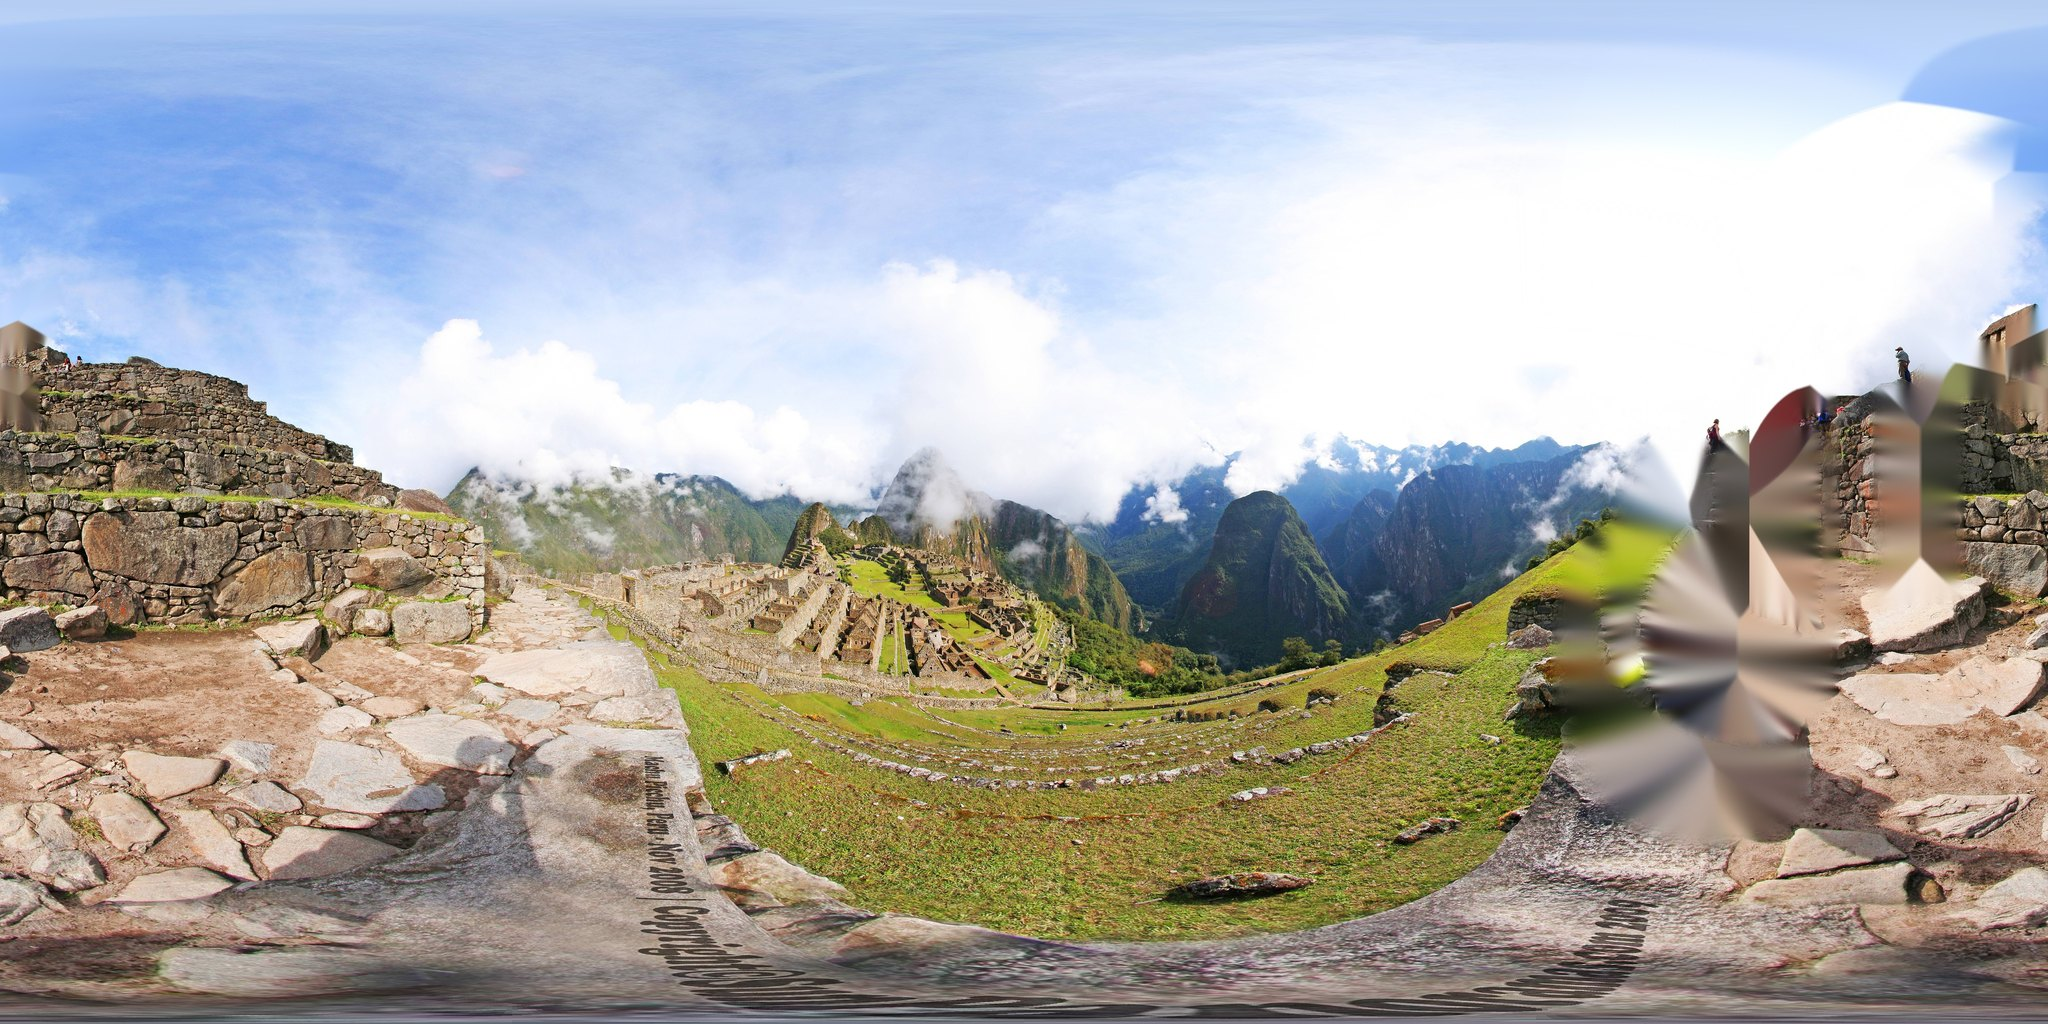
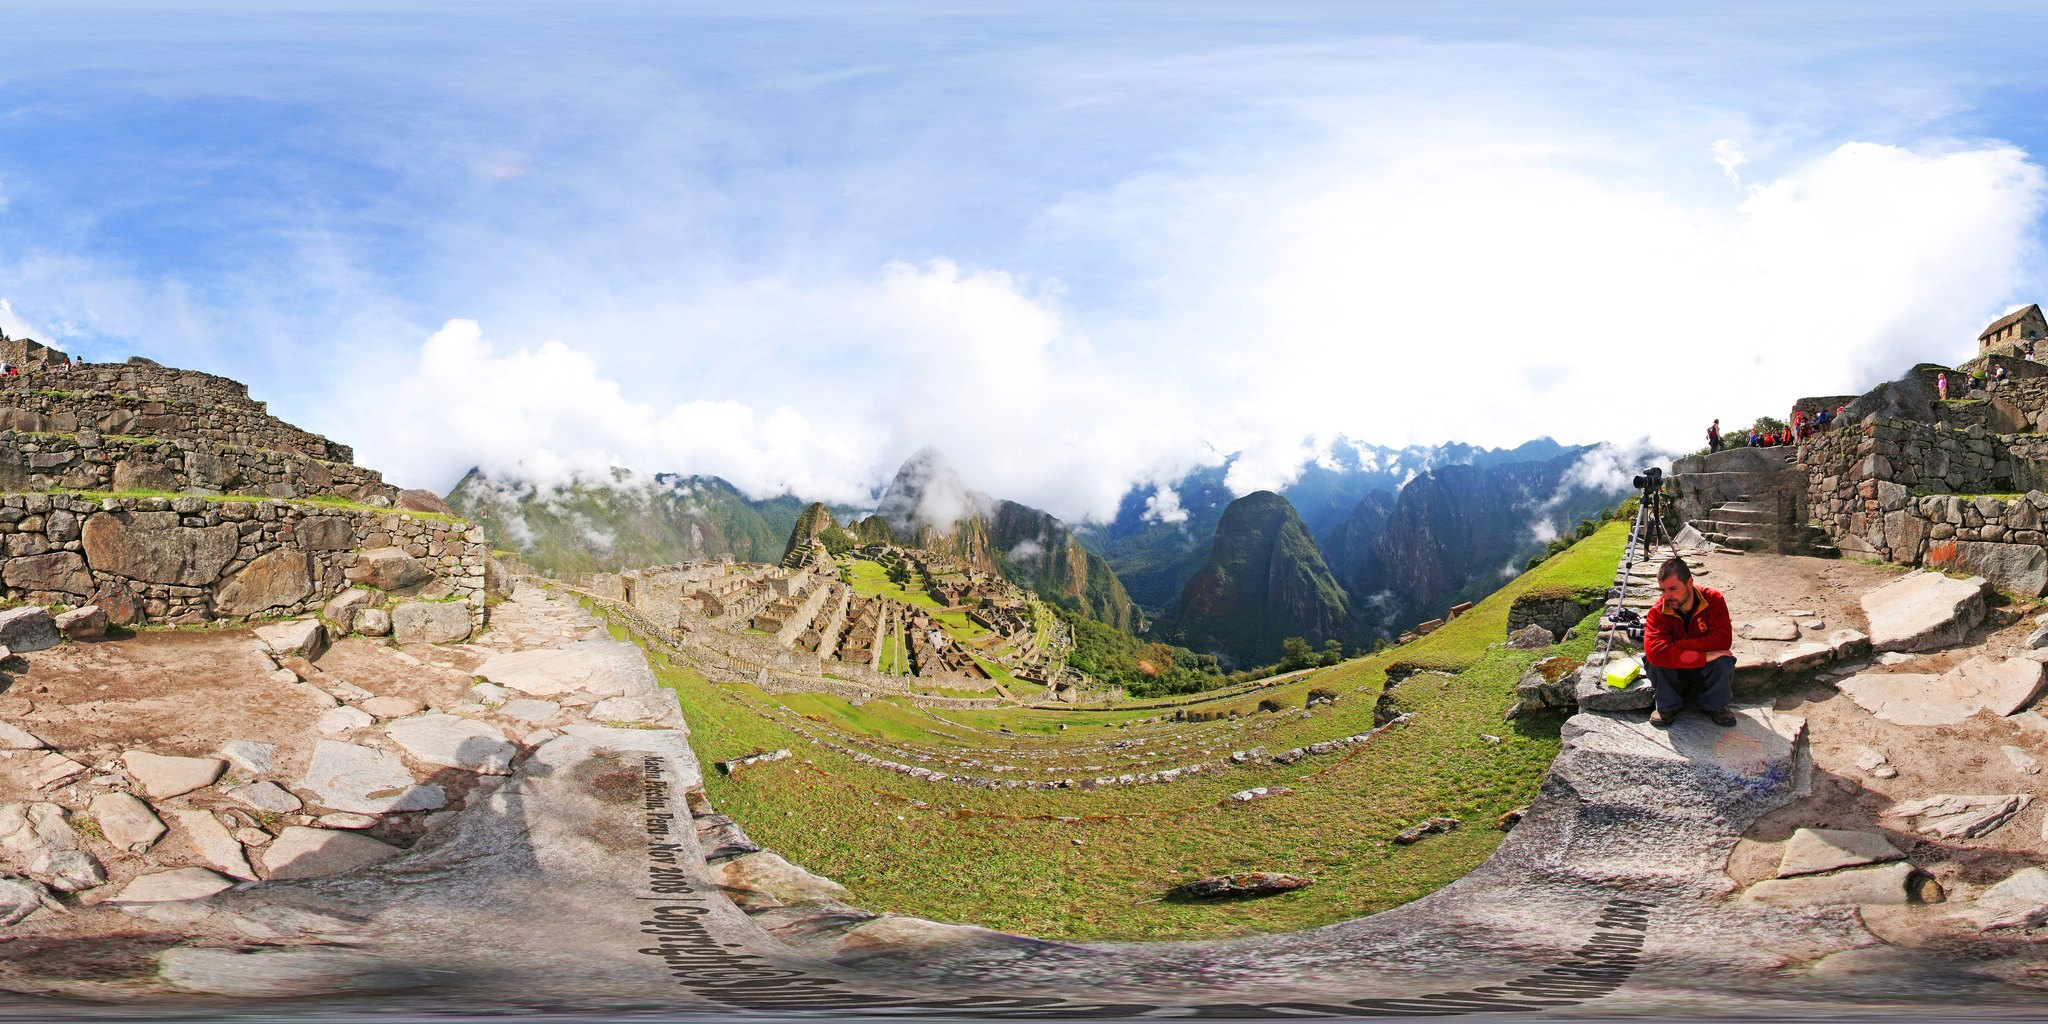
Add no-blur pano to GitHub Pages

Changed region(s): [[0.75, 0.2812, 1.0, 0.8438], [0.8125, 0.0625, 1.0, 0.1875], [0.0, 0.2812, 0.0312, 0.4062]]

diff --git a/docs/panos/index.html b/docs/panos/index.html
@@ -449,7 +449,8 @@
         renderReports();
         renderProvenance();
         renderPackageDetails();
-        if (options.length) setSelected(options[0]);
+        const initial = options.find((option) => option.id === manifest.primary_source_type) || options[0];
+        if (initial) setSelected(initial);
       })
       .catch((error) => {
         errorEl.hidden = false;

diff --git a/panos/index.html b/panos/index.html
@@ -449,7 +449,8 @@
         renderReports();
         renderProvenance();
         renderPackageDetails();
-        if (options.length) setSelected(options[0]);
+        const initial = options.find((option) => option.id === manifest.primary_source_type) || options[0];
+        if (initial) setSelected(initial);
       })
       .catch((error) => {
         errorEl.hidden = false;

diff --git a/spikes/mobile_vr_splat_feasibility/GITHUB_PAGES_PANOS.md b/spikes/mobile_vr_splat_feasibility/GITHUB_PAGES_PANOS.md
@@ -5,19 +5,20 @@ licensed research asset; production usage depends on 360Cities license terms.
 ## Status
 
 - Status: `packaged`
-- Generated: `2026-07-02T23:04:55Z`
+- Generated: `2026-07-03T14:47:22Z`
 - Site dir: `.` (GHP_VIEWER_DIR)
 - Panos page: `./panos/index.html`
 - Pano manifest: `./panos/panos.json`
 - Full-res included: `false`
-- Main-nav handling: `created_main_index` in `index.html`
+- Main-nav handling: `panos_link_already_present` in `index.html`
 
 ## Source Pano Selected
 
-- Primary source type: `people_removed`
-- Primary source path: `assets/machu_picchu_panoramas/360cities_machu_picchu/cleaned/360cities_machu_picchu_people_removed_equirect.jpg`
+- Primary source type: `people_removed_no_blur`
+- Primary source path: `assets/machu_picchu_panoramas/360cities_machu_picchu/cleaned/360cities_machu_picchu_people_removed_no_blur_equirect.jpg`
 - Original source path: `assets/machu_picchu_panoramas/360cities_machu_picchu/original/360cities_machu_picchu_equirect.jpg`
 - Cleaned source path: `assets/machu_picchu_panoramas/360cities_machu_picchu/cleaned/360cities_machu_picchu_people_removed_equirect.jpg`
+- No-blur cleaned source path: `assets/machu_picchu_panoramas/360cities_machu_picchu/cleaned/360cities_machu_picchu_people_removed_no_blur_equirect.jpg`
 - Source URL: `https://www.360cities.net/image/machu-picchu`
 - Photographer: `Julius Sunpanoramas.com`
 - License note: `360Cities XML metadata: licensed=True, licenseable=True; user provided separate license note for local research scrape; confirm production usage separately.`
@@ -33,11 +34,16 @@ licensed research asset; production usage depends on 360Cities license terms.
 - People-removed 4096 preview: `./panos/assets/machu_picchu_pano_people_removed_4096x2048.jpg`
 - People-removed 2048 preview: `./panos/assets/machu_picchu_pano_people_removed_2048x1024.jpg`
 - People-removed thumbnail: `./panos/assets/machu_picchu_pano_people_removed_thumbnail.jpg`
+- People-removed no-blur 4096 preview: `./panos/assets/machu_picchu_pano_people_removed_no_blur_4096x2048.jpg`
+- People-removed no-blur 2048 preview: `./panos/assets/machu_picchu_pano_people_removed_no_blur_2048x1024.jpg`
+- People-removed no-blur thumbnail: `./panos/assets/machu_picchu_pano_people_removed_no_blur_thumbnail.jpg`
 
 The un-gated package uses web-safe derivatives. Full-resolution copies are only written when `GHP_INCLUDE_FULLRES_PANO=1`.
 
 ## Related Reports
 
+- [INPAINT_MASKS_TO_FINAL_SPLAT_TEST.md](https://github.com/phdev/splat-tests/blob/main/spikes/mobile_vr_splat_feasibility/INPAINT_MASKS_TO_FINAL_SPLAT_TEST.md)
+- [FINAL_CLEANED_PANO_SPLAT_TEST.md](https://github.com/phdev/splat-tests/blob/main/spikes/mobile_vr_splat_feasibility/FINAL_CLEANED_PANO_SPLAT_TEST.md)
 - [PANO_PEOPLE_CLEANUP_TEST.md](https://github.com/phdev/splat-tests/blob/main/spikes/mobile_vr_splat_feasibility/PANO_PEOPLE_CLEANUP_TEST.md)
 - [SPAG4D_CLEANED_FULLRES_SHARP360_TEST.md](https://github.com/phdev/splat-tests/blob/main/spikes/mobile_vr_splat_feasibility/SPAG4D_CLEANED_FULLRES_SHARP360_TEST.md)
 
